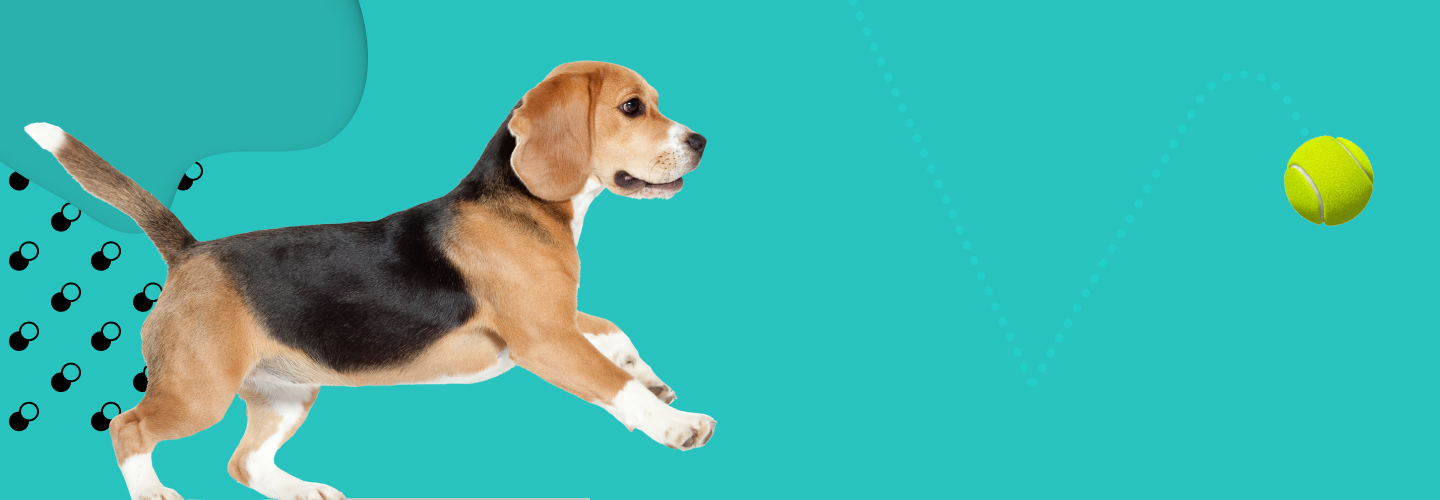
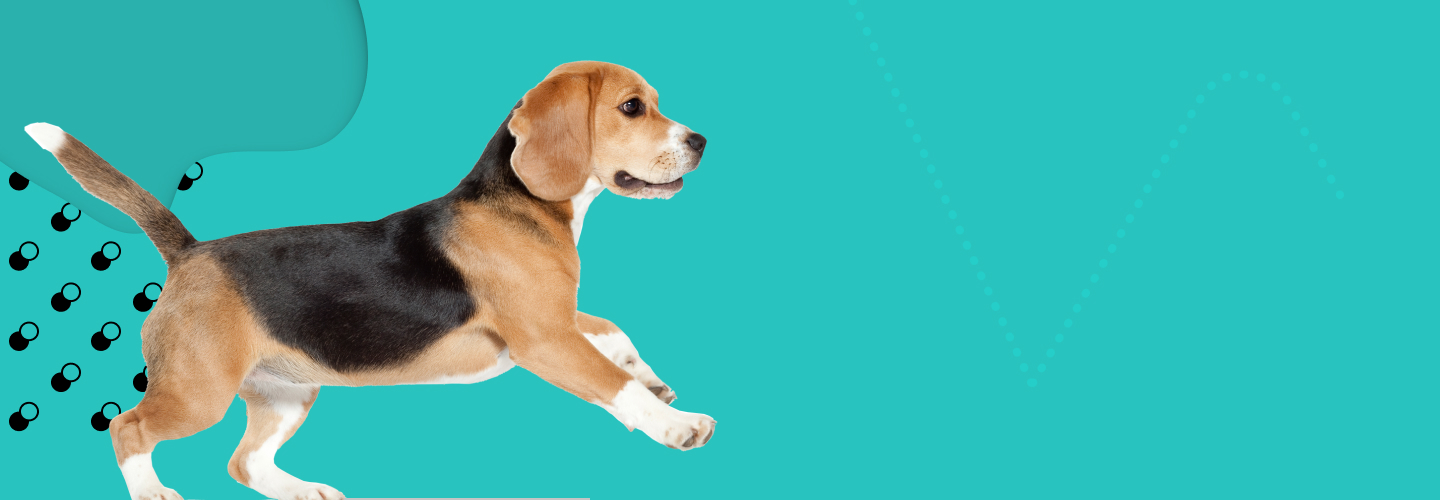
animation

Changed region(s): [[0.875, 0.27, 0.9688, 0.45]]

diff --git a/index.html b/index.html
@@ -58,6 +58,7 @@
     <section class="section section_with-img section_white">
         <div class="wrapper">
             <div class="block-with-img section__block-with-img">
+                <img class="block-with-img__decor" src="img/Stylize-Circles.png" alt="">
                 <h2 class="h h_2 h_white">
                     <span class="h__subtitle h__subtitle_gray">Who we are</span>
                     <span class="h__title">Nemo enim ipsam voluptatem quia<br>voluptas in proident</span>
@@ -114,8 +115,11 @@
     <section class="section section_dog">
         <div class="grid wrapper">
             <div class="grid__col_ofset-7">
-                <h3 class="h h_2 h_white">Nemo enim ipsam voluptatem quia voluptas in proident</h3>
-                <button class="button">Make an Appointment</button>
+                <div class="dog-info">
+                    <h3 class="h h_2 h_white">Nemo enim ipsam voluptatem quia voluptas in proident</h3>
+                    <button class="button">Make an Appointment</button>
+                    <img src="img/tennis-ball.png" class="dog-info__ball" alt="">
+                </div>
             </div>
         </div>
     </section>
@@ -196,36 +200,41 @@
         <div class="grid wrapper">
             <div class="grid__col grid__col_7">
                 <div class="contact-form">
-                    <h2 class="h h_2 h_white">Make an appointment</h2>
-                    <form action="">
-                        <div class="grid">
-                            <div class="grid__col grid__col_6">
-                                <input class="contact-form__input" type="text" name="name" placeholder="Name">
-                            </div>
-                            <div class="grid__col grid__col_6">
-                                <input class="contact-form__input" type="text" name="email" placeholder="Email">
-                            </div>
-                            <div class="grid__col grid__col_6">
-                                <input class="contact-form__input" type="text" name="phone" placeholder="Phone Number">
-                            </div>
-                            <div class="grid__col grid__col_6">
-                                <div class="contact-form__selectdiv">
-                                    <select class="contact-form__select" name="select">
-                                        <option value="Select Service 1" selected>Select Service 1</option>
-                                        <option value="Select Service 2">Select Service 2</option>
-                                        <option value="Select Service 3">Select Service 3</option>
-                                    </select>
+                    <img src="img/contact-back.png" class="contact-form__back" alt="">
+                    <div class="contact-form__wrapper">
+                        <h2 class="h h_2 h_white">Make an appointment</h2>
+                        <form action="">
+                            <div class="grid">
+                                <div class="grid__col grid__col_6">
+                                    <input class="contact-form__input" type="text" name="name" placeholder="Name">
+                                </div>
+                                <div class="grid__col grid__col_6">
+                                    <input class="contact-form__input" type="text" name="email" placeholder="Email">
+                                </div>
+                                <div class="grid__col grid__col_6">
+                                    <input class="contact-form__input" type="text" name="phone"
+                                        placeholder="Phone Number">
+                                </div>
+                                <div class="grid__col grid__col_6">
+                                    <div class="contact-form__selectdiv">
+                                        <select class="contact-form__select" name="select">
+                                            <option value="Select Service 1" selected>Select Service 1</option>
+                                            <option value="Select Service 2">Select Service 2</option>
+                                            <option value="Select Service 3">Select Service 3</option>
+                                        </select>
+                                    </div>
+                                </div>
+                                <div class="grid__col grid__col_12">
+                                    <textarea class="contact-form__textarea" name="about" id="" cols="30"
+                                        rows="10">Tell us about your puppers include his/her name</textarea>
+                                </div>
+                                <div class="grid__col grid__col_ofset-6">
+                                    <input class="contact-form__button button" value="Make an Appointment"
+                                        type="submit">
                                 </div>
                             </div>
-                            <div class="grid__col grid__col_12">
-                                <textarea class="contact-form__textarea" name="about" id="" cols="30"
-                                    rows="10">Tell us about your puppers include his/her name</textarea>
-                            </div>
-                            <div class="grid__col grid__col_ofset-6">
-                                <input class="contact-form__button button" value="Make an Appointment" type="submit">
-                            </div>
-                        </div>
-                    </form>
+                        </form>
+                    </div>
                 </div>
             </div>
             <div class="grid__col_ofset-8 grid__col_align-center">
@@ -307,10 +316,12 @@
             <div class="wrapper">
                 <div class="grid">
                     <div class="grid__col grid__col_8">
-                        <p class="footer__copyright__text">Tagline lorem ipsum dolor sit amet, consectetur adipiscing eiusmod</p>
+                        <p class="footer__copyright__text">Tagline lorem ipsum dolor sit amet, consectetur adipiscing
+                            eiusmod</p>
                     </div>
                     <div class="grid__col grid__col_4">
-                        <pre class="footer__copyright__text">© 2018 Company.   <b>Privacy Policy | Terms & Conditions</b></pre>
+                        <pre
+                            class="footer__copyright__text">© 2018 Company.   <b>Privacy Policy | Terms & Conditions</b></pre>
                     </div>
                 </div>
             </div>

diff --git a/css/block-with-img.css b/css/block-with-img.css
@@ -15,3 +15,23 @@
     border-radius: 40px;
     width: 100%;
 }
+
+.block-with-img__decor {
+    position: absolute;
+    width: 200px;
+    top: -109px;
+    right: -76px;
+    animation-duration: 2s;
+    animation-name: appear;
+    animation-timing-function: ease-in-out;
+}
+
+@keyframes appear {
+    from {
+        width: 0px; 
+      }
+    
+      to {
+        width: 200px;
+      }
+}

diff --git a/css/dog-info.css b/css/dog-info.css
@@ -1,0 +1,18 @@
+.dog-info {
+    position: relative;
+}
+
+.dog-info__ball {
+    position: absolute;
+    top: 0;
+    right: -100px;
+    transition-property: top, right, transform;
+    transition-duration: 2s;
+    transition-timing-function: ease-in-out;
+}
+
+.dog-info:hover .dog-info__ball {
+    transform: rotate(270deg);
+    top: -60px;
+    right: 400px;
+}

diff --git a/css/contact.css b/css/contact.css
@@ -1,8 +1,20 @@
 .contact-form {
+    text-align: center;
+    position: relative;
+    z-index: 0;
+}
+
+.contact-form__wrapper {
     padding: 75px 55px;
     background: #5D62B5;
     border-radius: 40px;
-    text-align: center;
+}
+
+.contact-form__back {
+    position: absolute;
+    z-index: -1;
+    top: -140px;
+    left: -205px;
 }
 
 .contact-form__input,

diff --git a/css/main.css b/css/main.css
@@ -11,3 +11,4 @@
 @import 'contact.css';
 @import 'social-links.css';
 @import 'footer.css';
+@import 'dog-info.css';
